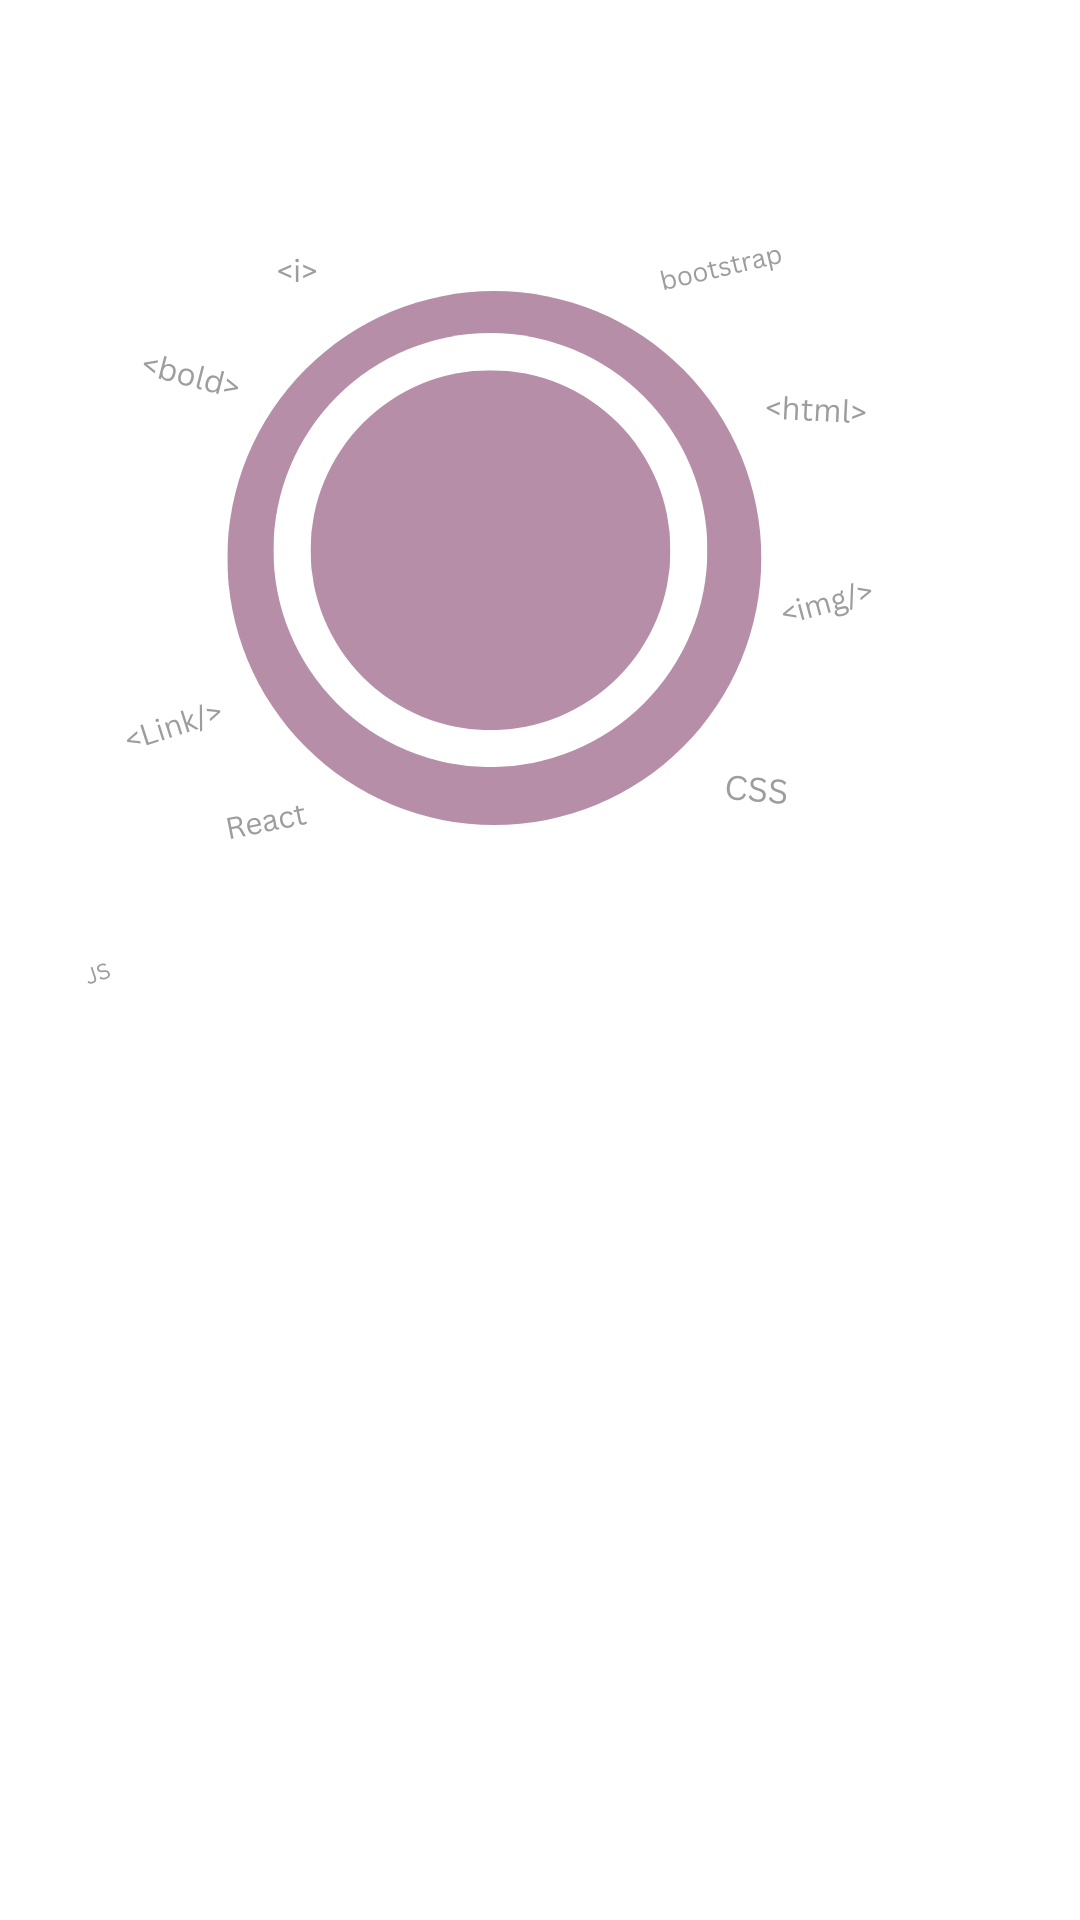
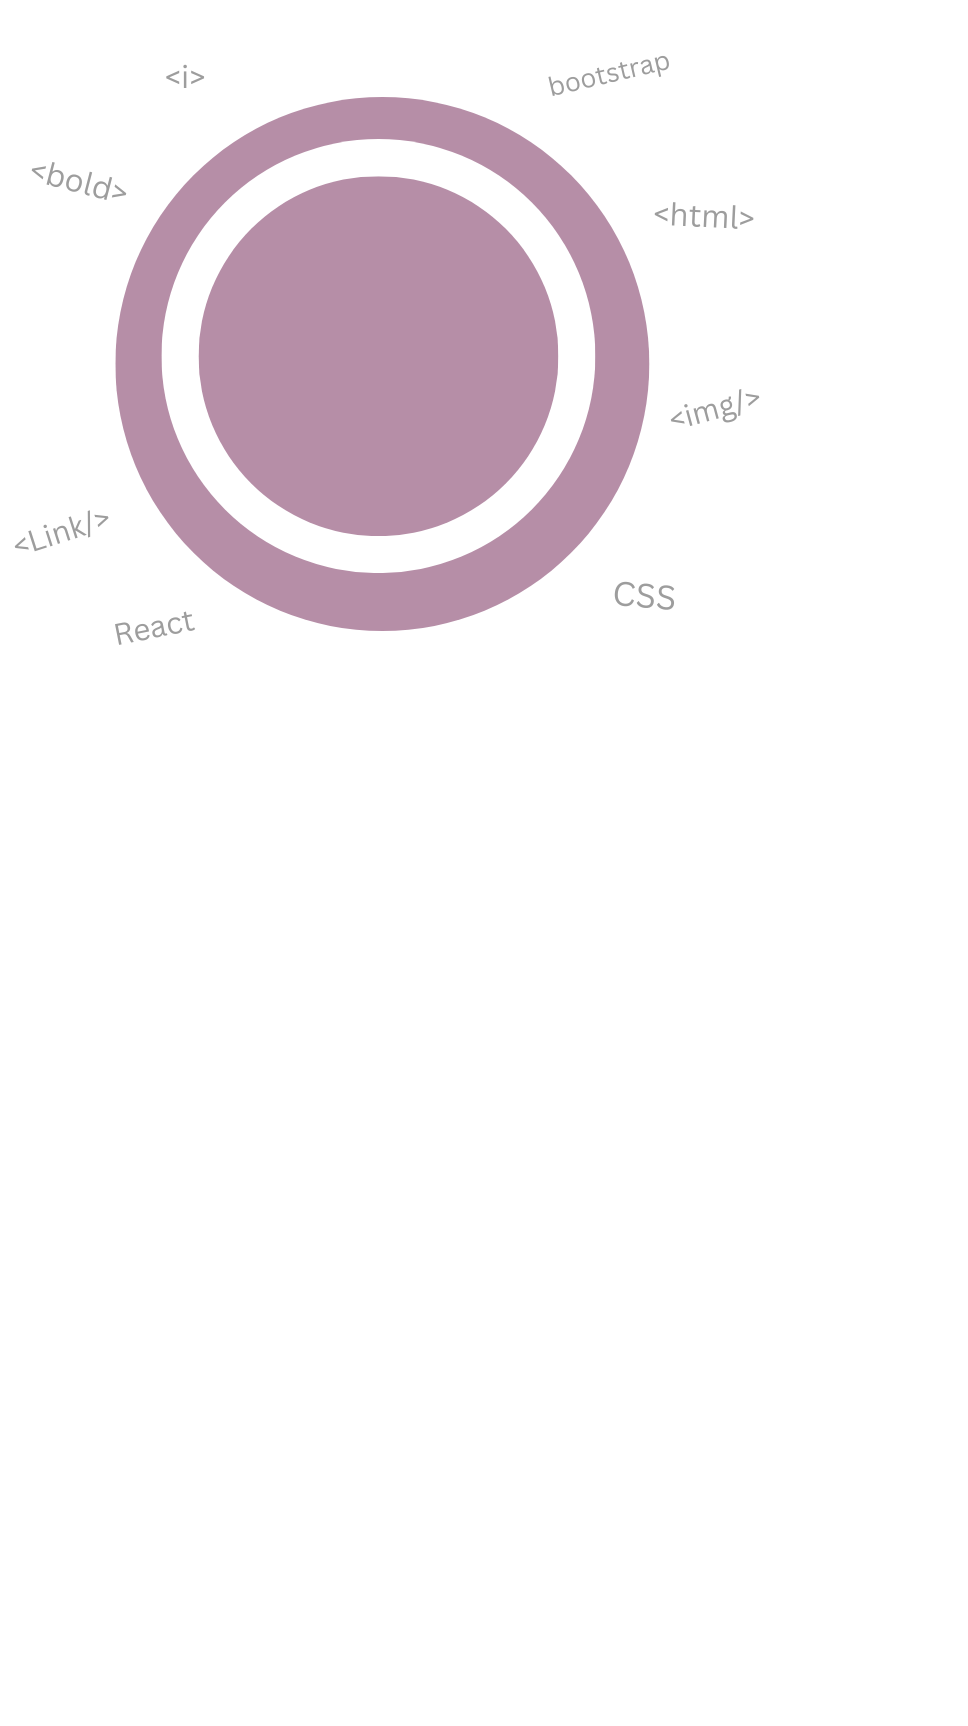
React-project

diff --git a/src/HomePage/Homepage.css b/src/HomePage/Homepage.css
@@ -50,7 +50,7 @@
     .Home-style{
         margin-top: 60px;
         background-image: url('../Images/html2.png');
-        height: 135vh;
+        height: 120vh;
     }
     .parent{
         flex-direction: column;
